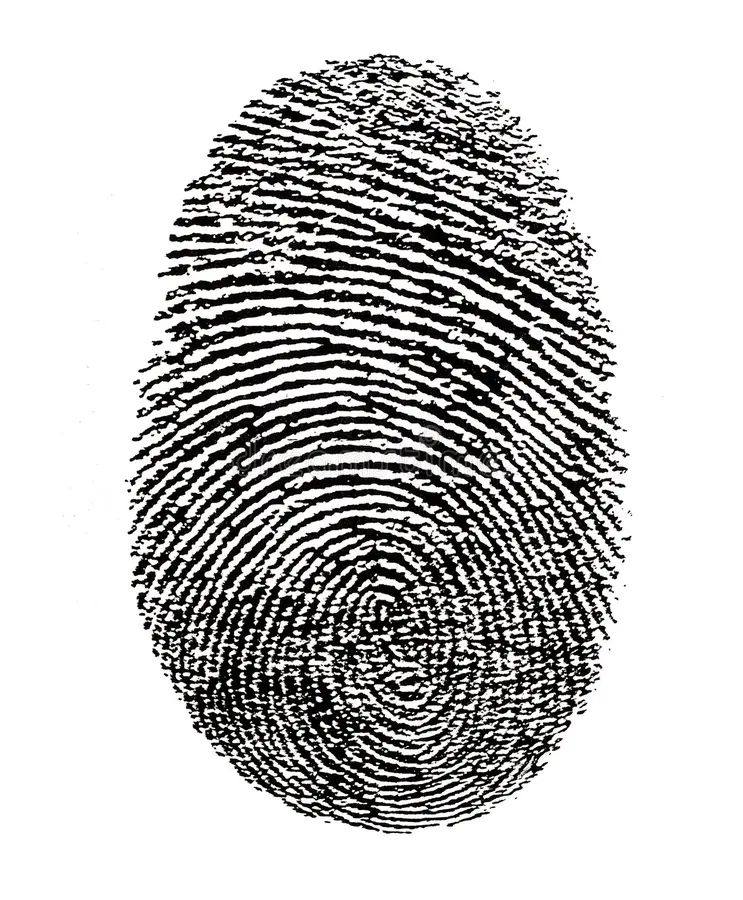
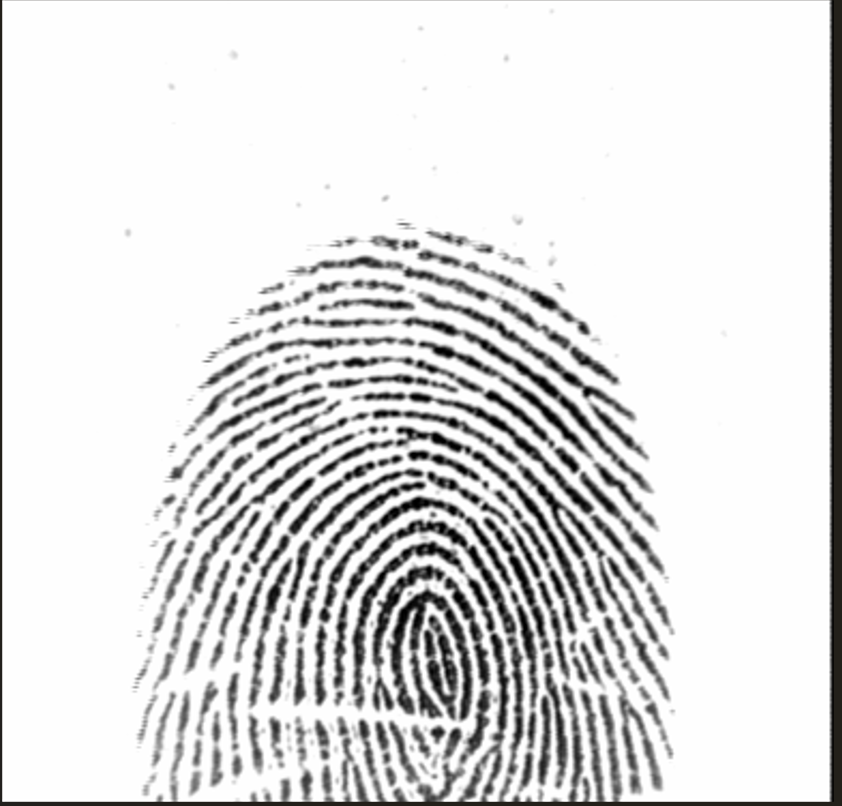
corrigindo readme e realizando ultimos testes

diff --git a/src/test/java/TesteValidacaoDigital.java b/src/test/java/TesteValidacaoDigital.java
@@ -70,7 +70,7 @@ public class TesteValidacaoDigital {
 
 
     public static void main(String[] args) {
-        String imagem = "digital-correto.png";
+        String imagem = "Digital-Sem-Fraude.png";
         String imagemTeste = "src/main/resources/imagensTeste/"+ imagem;
         String pastaReferencias = "src/main/resources/digitalreferences";
 

diff --git a/README.md b/README.md
@@ -61,12 +61,14 @@ Este projeto é uma aplicação backend desenvolvida em **Java (Spring Boot)** p
 - Sistema Operacional compatível com a biblioteca nativa do OpenCV
 
 ### 1. Subir o MongoDB via Docker (opcional)
-
 ```bash
 docker run --name mongo-test -d -p 27017:27017 mongo
 
-### 2 Deve buildar o projeto
+```
+### 2. Deve buildar o projeto
+```bash
 mvn clean package
-
-### Rodar o script abaixo:
+```
+### 3. Rodar o script abaixo (Pelo Git Bash):
+```Bash
 java -Djava.library.path="libs/opencv_java470.dll" -jar target/quod-app-0.0.1-SNAPSHOT.jar
